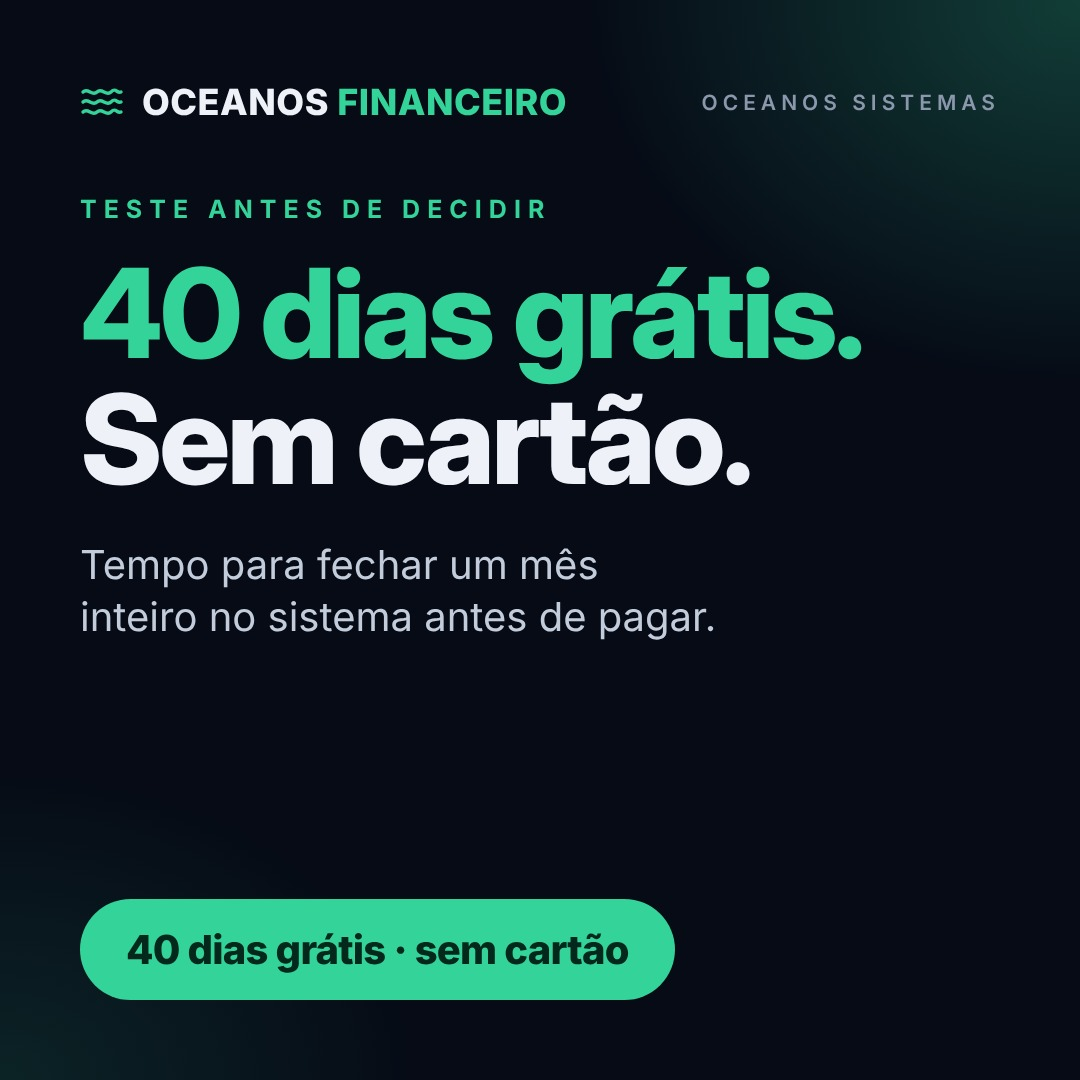
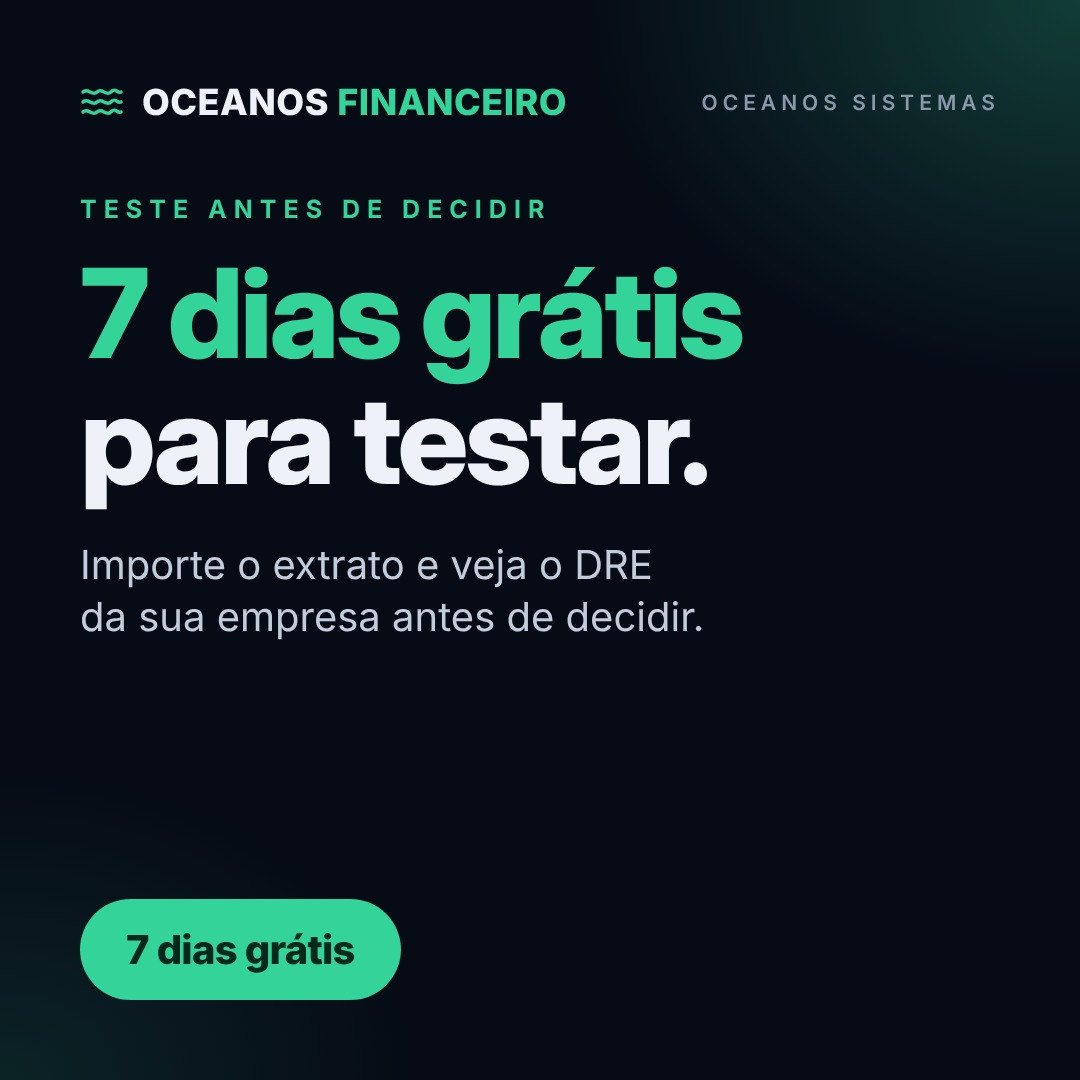
Oceanos Financeiro: teste passa a ser de 7 dias nos criativos
Claude-Session: https://claude.ai/code/session_01TwhZrvY4W8N5pYvYZ5Ww8b

Changed region(s): [[0.0611, 0.2444, 0.7944, 0.6111], [0.1222, 0.825, 0.6417, 0.9472]]

diff --git a/ads/render_ads.py b/ads/render_ads.py
@@ -7,7 +7,7 @@ from playwright.sync_api import sync_playwright
 
 FP = dict(pasta="ficha-pro", nome="FICHA", nome2="PRO", cor="#FF8A4C", escuro="#2A1200", cta="7 dias grátis · sem cartão",
   icone='<svg width="44" height="44" viewBox="0 0 44 44" fill="none" stroke="{c}" stroke-width="3.4" stroke-linecap="round"><circle cx="27" cy="22" r="13"/><circle cx="27" cy="22" r="6"/><path d="M6 8v28M2 8v8a4 4 0 0 0 8 0V8"/></svg>')
-OF = dict(pasta="oceanos-financeiro", nome="OCEANOS", nome2="FINANCEIRO", cor="#34D399", escuro="#04281C", cta="40 dias grátis · sem cartão",
+OF = dict(pasta="oceanos-financeiro", nome="OCEANOS", nome2="FINANCEIRO", cor="#34D399", escuro="#04281C", cta="7 dias grátis",
   icone='<svg width="44" height="44" viewBox="0 0 44 44" fill="none" stroke="{c}" stroke-width="3.4" stroke-linecap="round"><path d="M3 12c5-5 9 5 14 0s9 5 14 0 6 2 10 0M3 22c5-5 9 5 14 0s9 5 14 0 6 2 10 0M3 32c5-5 9 5 14 0s9 5 14 0 6 2 10 0"/></svg>')
 
 TV = dict(pasta="terra-a-vista", nome="TERRA", nome2="À VISTA", cor="#E8CE94", escuro="#231A05", cta="Comece grátis · no celular",
@@ -40,7 +40,7 @@ ADS += [
  (FP, "06-contraste", "Para restaurantes", "CMV estimado é chute. *CMV real é gestão.*", "Ficha técnica, estoque FEFO e preço com markup e impostos."),
  (OF, "01-dor", "Para donos de pequenas empresas", "Vendeu bem e *o dinheiro sumiu*?", "Veja o fluxo de caixa e o DRE da sua empresa, sem planilha."),
  (OF, "02-facilidade", "Sem planilha", "Importe o extrato. *O DRE sai pronto.*", "OFX ou CSV, com conciliação bancária."),
- (OF, "03-risco-zero", "Teste antes de decidir", "*40 dias grátis.* Sem cartão.", "Tempo para fechar um mês inteiro no sistema antes de pagar."),
+ (OF, "03-risco-zero", "Teste antes de decidir", "*7 dias grátis* para testar.", "Importe o extrato e veja o DRE da sua empresa antes de decidir."),
  (OF, "04-preco", "Quanto custa", "Financeiro completo por *≈ R$ 82/mês*.", "Plano anual de R$ 987, sem fidelidade."),
  (OF, "05-mistura", "Para donos de pequenas empresas", "Conta da empresa e pessoal *misturadas*?", "Várias empresas e as finanças pessoais em um lugar só."),
  (OF, "06-contraste", "Para donos de pequenas empresas", "Lucro no papel *não paga boleto*.", "DRE e fluxo de caixa automáticos, a partir do extrato."),
